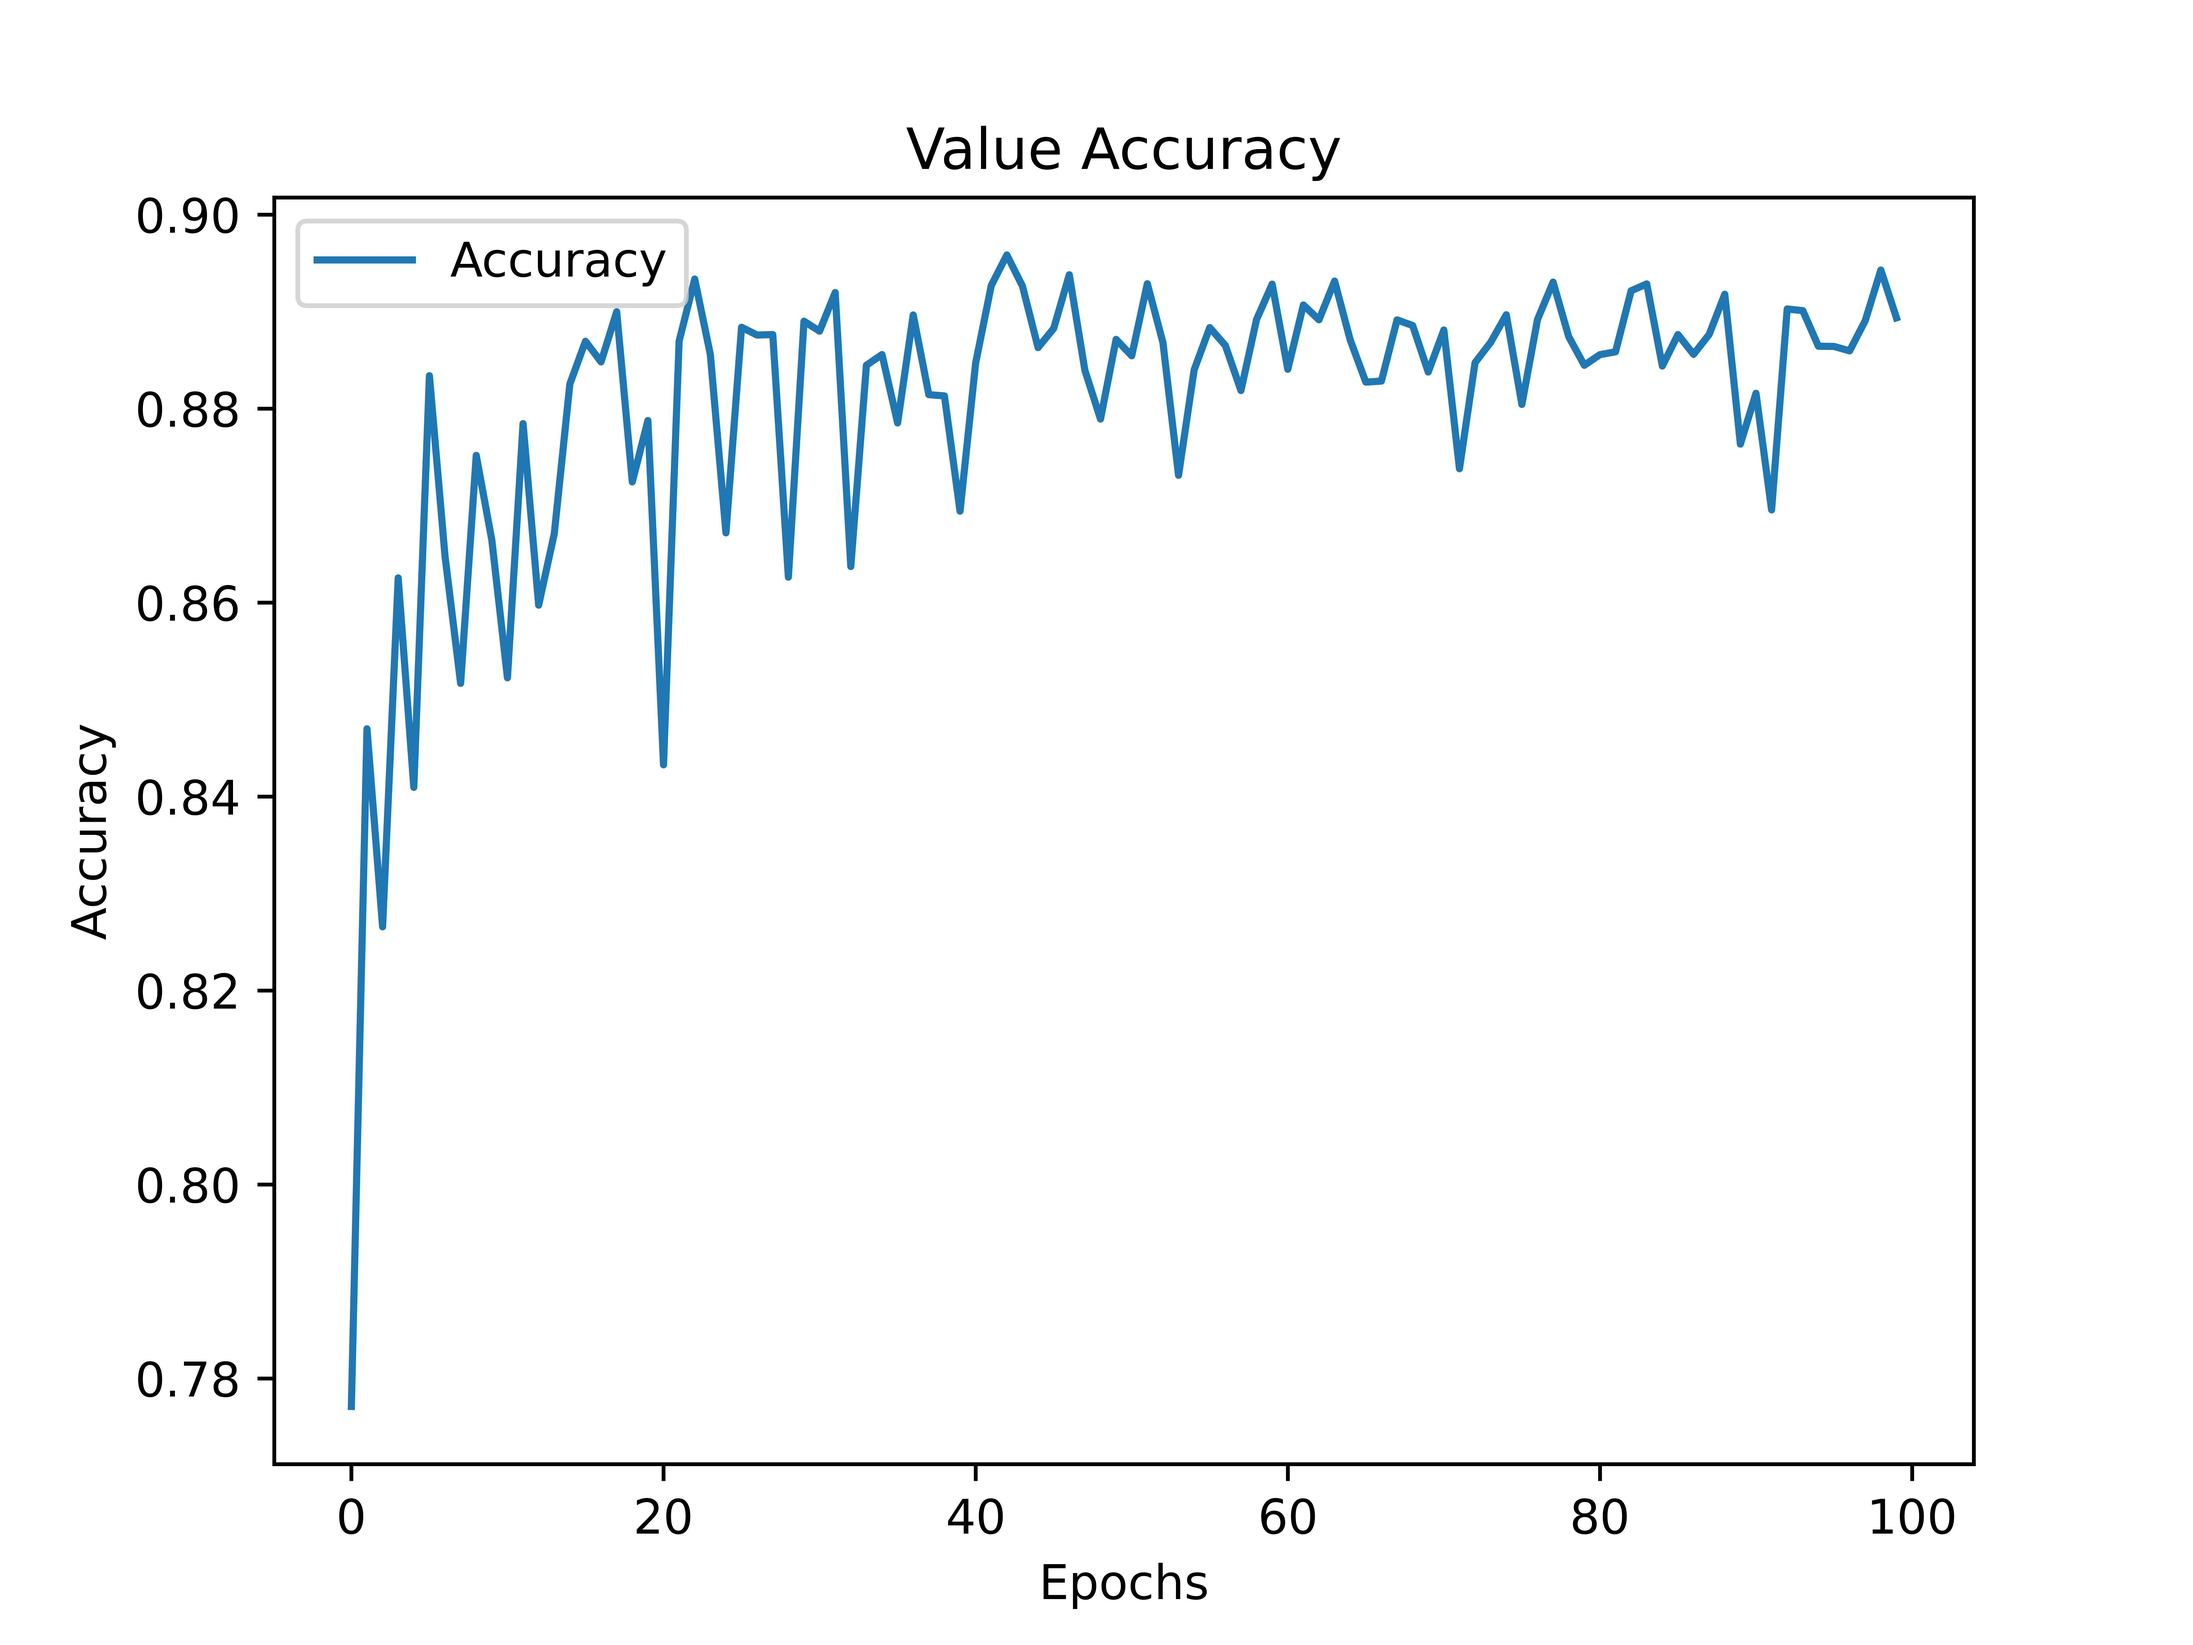
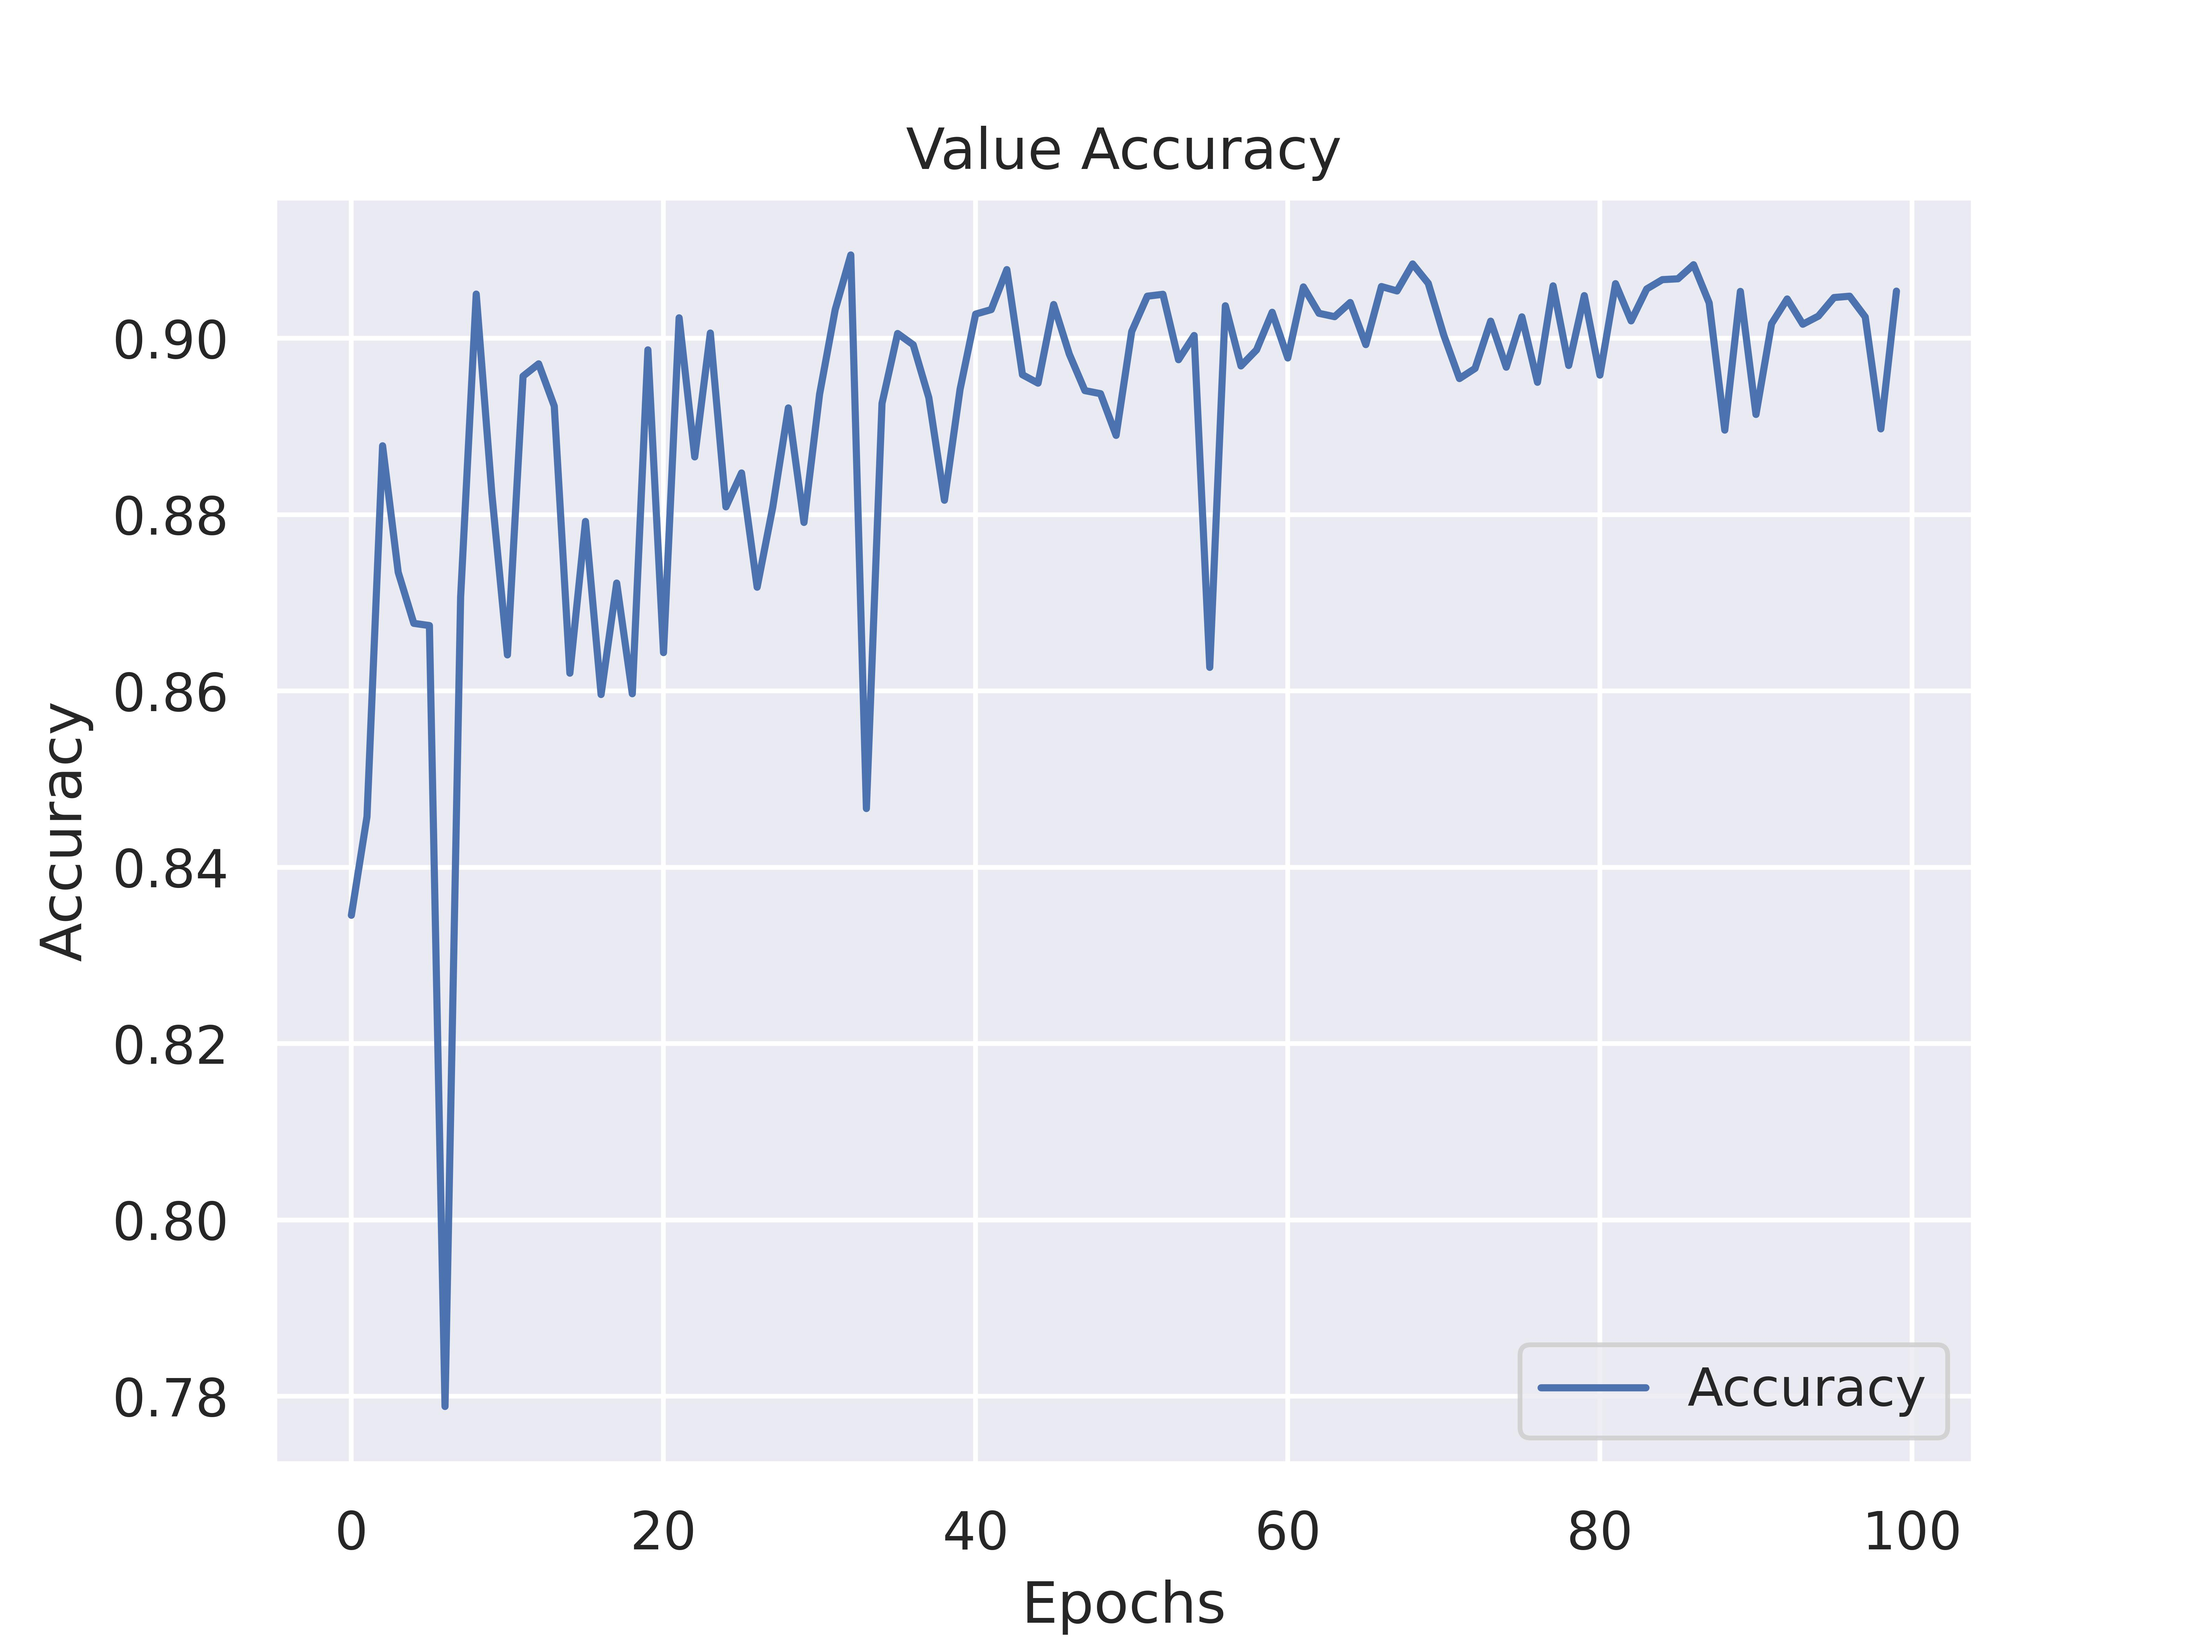
ResNet-18 residual is work?

diff --git a/models.py b/models.py
@@ -98,11 +98,12 @@ class ResNet(nn.Module):
             )
         else:
             self.layer0 = nn.Sequential(
-                nn.Conv2d(1, int(self.in_channel/4), kernel_size=3, stride=2, padding=3, bias=False),
-                nn.Conv2d(int(self.in_channel/4), int(self.in_channel/2), kernel_size=3, stride=2, padding=3, bias=False),
-                nn.Conv2d(int(self.in_channel/2), self.in_channel, kernel_size=3, stride=2, padding=3, bias=False),
+                nn.Conv2d(1, int(self.in_channel), kernel_size=3, stride=2, padding=1, bias=False),
+                nn.Conv2d(int(self.in_channel), int(self.in_channel), kernel_size=3, stride=1, padding=1, bias=False),
+                nn.Conv2d(int(self.in_channel), self.in_channel, kernel_size=3, stride=1, padding=1, bias=False),
                 nn.BatchNorm2d(self.in_channel),
-                nn.ReLU(inplace=True)
+                nn.ReLU(inplace=True),
+                nn.MaxPool2d(kernel_size=3, stride=2, padding=1)
             )
 
 

diff --git a/utils.py b/utils.py
@@ -112,10 +112,10 @@ def plot_compare_accuracy(model_configs, all_val_accuracies):
 
     plt.xlabel('Epochs')
     plt.ylabel('Validation Accuracy')
-    plt.title('Validation Accuracy for Different Kernel Size')
+    # plt.title('Validation Accuracy for Different Kernel Size')
     plt.legend(loc='center right')
     plt.grid(True)
-    plt.savefig('figure/value_accuracy_compare_kernel.jpg', dpi=1000)
+    plt.savefig('figure/value_accuracy_compare_18.jpg', dpi=1000)
     plt.show()
 
 def plot_compare_loss(model_configs, all_train_losses):
@@ -129,8 +129,8 @@ def plot_compare_loss(model_configs, all_train_losses):
 
     plt.xlabel('Epochs')
     plt.ylabel('Training Loss')
-    plt.title('Training Loss for Different Kernel Size')
+    # plt.title('Training Loss for Different Kernel Size')
     plt.legend(loc='center right')
     plt.grid(True)
-    plt.savefig('figure/train_loss_compare_kernel.jpg', dpi=1000)
+    plt.savefig('figure/train_loss_compare_18.jpg', dpi=1000)
     plt.show()

diff --git a/main.py b/main.py
@@ -134,13 +134,13 @@ def test(model_name, using_exist=False):
 #     # 'cnn'
 # ]
 model_configs = [
-    'resnet18_small',
-    'resnet18'
+    # 'resnet18_small',
+    'resnet18',
     # 'resnet34',
     # 'resnet50', 
     # 'resnet101',
     # 'resnet152',
-    # 'without_resnet18',
+    'without_resnet18'
     # 'without_resnet34',
     # 'without_resnet50', 
     # 'without_resnet101',
